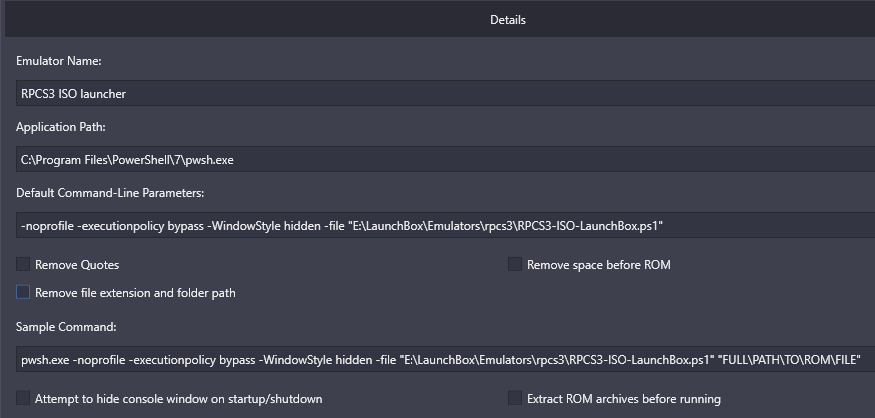
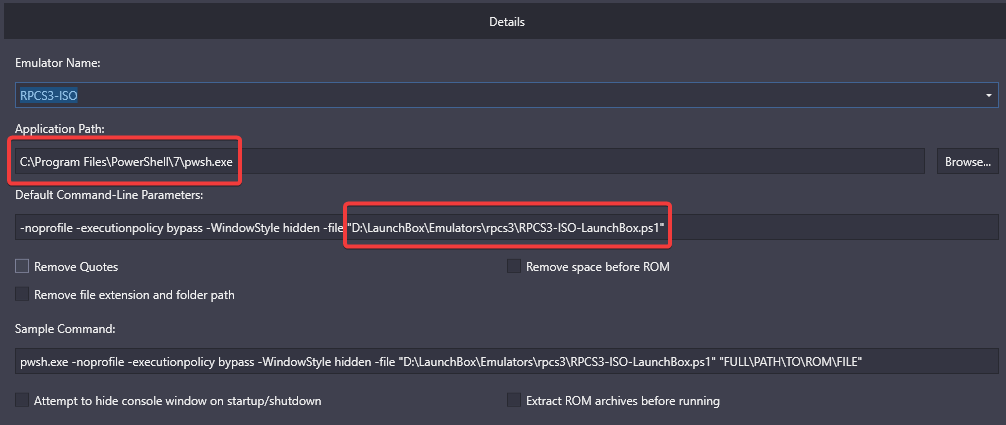
updated and improved

diff --git a/README.md b/README.md
@@ -1,142 +1,110 @@
-# RPCS3-ISOLauncher-Launchbox
+# 🎮 RPCS3-ISOLauncher-Launchbox
 
-This is a PowerShell script to mount an ISO image to be run in the [RPCS3](https://rpcs3.net) emulator using [Launchbox](https://www.launchbox-app.com) and unmount when program closes.
+A PowerShell script to mount a PlayStation 3 ISO image for use with the [RPCS3](https://rpcs3.net) emulator, designed for seamless integration with [LaunchBox](https://www.launchbox-app.com). The script automatically mounts the ISO, launches the game in RPCS3, and unmounts the ISO when RPCS3 closes. All actions and errors are logged for troubleshooting.
 
-Can also be used without Lanchbox. Follow step 1 below then run in powershell like: `.\RPCS3-ISO-LaunchBox.ps1 -ISOpath D:\my.iso`
+## ✨ Features
 
-Can be run directly in Launchbox using PowerShell
+- ✅ **Automatic ISO Mounting:** Mounts the specified ISO and detects the drive letter.
+- ✅ **Automatic Unmount:** Dismounts the ISO after RPCS3 closes.
+- 📝 **Robust Logging:** All actions and errors are appended to a log file with timestamps.
+- 🛡 **Error Handling:** Validates ISO path, checks for EBOOT.BIN, and handles failures gracefully.
 
-Discussion:  [RPCS3 ISO support](https://forums.launchbox-app.com/topic/42569-rpcs3-iso-support-with-powershell/)
+## ⚡ Installation
 
-</br>
-</br>
+1. 📄 Copy [`RPCS3-ISO-LaunchBox.ps1`](./RPCS3-ISO-LaunchBox.ps1) to the same folder as `rpcs3.exe`.
+    - If you prefer a different location, edit the `$RPCS3path` variable in the script to point to your `rpcs3.exe`.
+    ```powershell
+    $RPCS3path = "$PSScriptRoot\rpcs3.exe"  # Default: same folder as script
+    # or
+    $RPCS3path = "D:\Path\To\rpcs3.exe"    # Custom path
+    ```
 
-## Install
+2. 🛠 Configure LaunchBox:
+    - Open **Tools → Manage → Emulators...**
+    - Add a new Emulator and configure like:
 
-1. Copy RPCS3-ISO-LaunchBox.ps1 script to same folder as the RPCS3.exe.
-    * If you don't want to put script in same folder, change $RPCS3path variable to your rpcs3.exe file.
-```powershell
-$RPCS3path = "$PSScriptRoot\rpcs3.exe"  
-# this is default and loads rpcs3.exe from same folder as script, no change needed.
-```
-```powershell
-$RPCS3path = "D:\Path\To\rpcs3.exe"     
-# change to path directly to script anywhere IF NEEDED.
-```
+      ![Emulator Add](screenshots/LaunchboxEmulatorConfig.png)
+    - Set the emulator application path to your PowerShell executable (e.g., `pwsh.exe` for PowerShell 7 or `powershell.exe` for Windows PowerShell).
+    - ⚠ **Note:** PowerShell 7 is not installed by default on Windows. You can download it from [Microsoft's official site](https://github.com/PowerShell/PowerShell).
+    - Example PowerShell 7 path:
+      ```
+      C:\Program Files\PowerShell\7\pwsh.exe
+      ```
+    - Example Windows PowerShell path:
+      ```
+      C:\Windows\System32\WindowsPowerShell\v1.0\powershell.exe
+      ```
+    - Set the default command-line parameters:
+      ```powershell
+      -noprofile -executionpolicy bypass -WindowStyle hidden -file "<PathToScript>\RPCS3-ISO-LaunchBox.ps1" -ISOpath "%romfile%"
+      ```
+      Replace `<PathToScript>` with the actual path to your script which should be inside the RPCS3 folder if you are following this guide and did not change it.
 
-2. Setup Launch box emulator like below screenshot.
-   * Emulator name can be whatever you want.
-   * Set application path to Powershell.exe.  I used Powershell 7 but WindowsPowershell shoud work as well.
+3. 🎮 Also configure an association with PlayStation 3 and set as default if desired.
+   - ![Associate-ISO](screenshots/AssociatedPlatformsPS3.png)
 
-![EmulatorConfig](https://github.com/ptmorris1/RPCS3-ISOLauncher-Launchbox/blob/master/screenshots/LaunchboxEmulatorConfig.png?raw=true)
+## 🚀 Usage
 
-## Powershell 7 application path
+- ▶ If you set as default, launch game normally from LaunchBox.
+- 🖱 If not default, right-click a game and choose **Launch with...** and pick the emulator you created above.
 
-    C:\Program Files\PowerShell\7\pwsh.exe
-
-## WindowsPowershell application path
-
-    C:\Windows\System32\WindowsPowerShell\v1.0\powershell.exe
-
-## Default Command-Line Parameters:
-
-    -noprofile -executionpolicy bypass -WindowStyle hidden -file "E:\LaunchBox\Emulators\rpcs3\RPCS3-ISO-LaunchBox.ps1"
-
-- Change path to where you put the RPCS3-ISO-LaunchBox.ps1 script.
-
-</br>
-
-3. Now to test by editing an ISO in Launchbox and change emulator to what you named your emulator, my example "RPCS3 ISO Launcher".
-
-![ISO-Edit](https://github.com/ptmorris1/RPCS3-ISOLauncher-Launchbox/blob/master/screenshots/ISO-Edit.png?raw=true)
-
-4. Launch game with Lanchbox and hope for the best. :grin:
-
-</br>
-</br>
-
-# RPCS3-Decrypt-ISO-LaunchBox
-
-This is a PowerShell script to decrypt and mount an ISO image to be run in the [RPCS3](https://rpcs3.net) emulator using [Launchbox](https://www.launchbox-app.com) after closing it will unmount and delete decrypted iso.
-
-Same installation setup as RPCS3-ISO-LaunchBox.ps1 but extra options needed and need to be changed in script.
-
-Required:
-- windows computer
-- ps3dec.exe  tested using [PS3Dec_R5](https://github.com/al3xtjames/PS3Dec)
-- dkeys for each game.
-- encrypted PS3 ISO files.
-- Powershell.
-
-```powershell
-$PS3DEC = "$PSScriptRoot\ps3dec\PS3Dec.exe"  
-## must point to ps3dec.exe.  Default is in ps3dec folder with rpcs3.exe
-```
-```powershell
-$KeysPath = "$PSScriptRoot\dkeys" 
-## Must point to folder with dkeys.  Default is in folder called dkeys with rpcs3.exe
-```
-```powershell
-$DecryptPath = '' 
-## Must point to folder where decrypted ISO will be written.  Default is same folder as orginal ISO
-```
-```powershell
-$DeleteFile = 'yes'  
-##yes is default and deletes decrypted iso after use.  'no' will keep ISO for next time you load game.  Uses more HDD space
-```
-
-Discussion:  [RPCS3-Decrypt-ISO-LaunchBox](https://forums.launchbox-app.com/topic/72105-ps3-looking-to-create-a-batch-file-to-decrypt-isos-with-ps3dec-when-launching-a-game-then-delete-the-decrypted-ps3-file-on-quit/)
-
-</br>
-</br>
-
-# Bulk-Decrypt-ISOs
-
-Simple script to bulk decrypt a folder full of encrypted ISOs.
-
-Required:
-- windows computer
-- ps3dec.exe  tested using [PS3Dec_R5](https://github.com/al3xtjames/PS3Dec)
-- dkeys for each game.
-- encrypted PS3 ISO files.
-- Powershell.  Must set [execution_policy](https://learn.microsoft.com/en-us/powershell/module/microsoft.powershell.security/set-executionpolicy?view=powershell-7.3) to remotesigned.
+- To run manually from PowerShell (without LaunchBox):
   ```powershell
-  Set-ExecutionPolicy remotesigned -force
+  cd C:\path\to\rpcs3folder
+  .\RPCS3-ISO-LaunchBox.ps1 -ISOpath D:\path\to\game.iso
   ```
+- The script will:
+  1. 🔍 Validate the ISO path.
+  2. 💽 Mount the ISO and detect the drive letter.
+  3. 📂 Locate `EBOOT.BIN` at `DriveLetter:\PS3_GAME\USRDIR\EBOOT.BIN`.
+  4. 🕹 Launch RPCS3 in Fullscreen, NoGui mode. (Hit `Esc` to minimize.)
+  5. ⏳ Wait for RPCS3 to exit, then unmount the ISO.
+  6. 📝 Log all actions and errors to a file.
 
-Instructions:
-- Download script and edit with notepad or your favorite text\code editor.
-- Change 1st 4 [variables](https://learn.microsoft.com/en-us/powershell/module/microsoft.powershell.core/about/about_variables?view=powershell-7.3) to paths that suit your needs.
-  * $PS3DEC - Path to ps3dec.exe file. Example:  'C:\path\ps3dec.exe'
-  * $ISOroot - Path to where you have your encrypted ISOs stored.  Name must match dkey file exactly excluding file extension.
-  * $ISODecrypt - Path to folder where decrypted ISO files will be written.
-  * $dkeys - Path to folder that include all dkeys for your ISO files.  Must be named same as ISO file excluding file extension.
-- Open Powershell and set execution policy with command
-  * Set-ExecutionPolicy remotesigned -force
-  * May need to restart powershell afterwards if each ISO asks for a confirmation prompt.
-- Enter path to the saved script and run.  
-  * Need help? [ReadMe](https://learn.microsoft.com/en-us/powershell/scripting/windows-powershell/ise/how-to-write-and-run-scripts-in-the-windows-powershell-ise?view=powershell-7.3)
+## 📝 Logging
 
-# Troubleshooting ISO launcher
+- All actions and errors are logged to the same folder as the script in a file called `pwsh.log`.
+- Each entry includes a timestamp and message.
+- The log file is appended (not overwritten) on each run.
 
-***E SYS: Booting ':/PS3_GAME/USRDIR/EBOOT.BIN' with cli argument failed: reason: Invalid file or folder***
+## 🛠 Troubleshooting
 
-- If RPCS3 gives error about path, may need to change mount wait time.
-Edit script and change line 12: ***Start-Sleep -Seconds 2***
-Change 2 to 3 or however many seconds your system needs to mount your ISO.
+- ❌ **ISO not mounting or no drive letter assigned:**
+  - Ensure the ISO file exists and is not corrupted or encrypted.
+  - The script waits up to 10 seconds for the drive to be ready.
+- ❌ **EBOOT.BIN not found:**
+  - The script expects the standard PS3 folder structure. Custom ISOs may not work.
 
-***RPCS3 closes to fast***
+## 📦 Bulk Decrypting PS3 ISOs
 
-- If RPSS3 is slower to start on your system
-Edit line 20 and change -Seconds to 3 or more as needed.
+The [`Bulk-Decrypt-ISOs.ps1`](./Bulk-Decrypt-ISOs.ps1) script allows you to decrypt multiple PS3 ISO files in a batch process using `ps3dec.exe` and your collection of `.dkey` files.
 
-</br>
-</br>
+### Usage
 
-# Troubleshooting decrypt ISO launcher
+1. **Download** [`Bulk-Decrypt-ISOs.ps1`](./Bulk-Decrypt-ISOs.ps1) and save it to a folder of your choice. **Edit the script** to set the correct paths at the top for:
+   - `$PS3DEC` – Path to your `ps3dec.exe` binary
+   - `$ISOroot` – Folder containing your encrypted ISO files
+   - `$ISOdecrypt` – Folder where decrypted ISOs will be moved
+   - `$dKeys` – Folder containing your `.dkey` files (named to match each ISO)
 
-</br>
-</br>
+2. **Run the script** from PowerShell:
+   ```powershell
+   cd D:\downloads
+   .\Bulk-Decrypt-ISOs.ps1
+   ```
 
-# Troubleshooting bulk decrypt script
+3. The script will:
+   - Scan the ISO folder for all files
+   - Find the matching `.dkey` for each ISO
+   - Run `ps3dec.exe` to decrypt each ISO
+   - Move decrypted ISOs to the target folder
+   - Output a summary report with status, file size, regions, and any errors
+
+### Output
+- Output is parsed from ps3dec
+- The script prints a table of results to the console.
+- Each entry includes the original ISO name, decrypted file, status, and details from the decryption process.
+- Errors (such as missing keys or decryption failures) are reported per file.
+
+---
 
